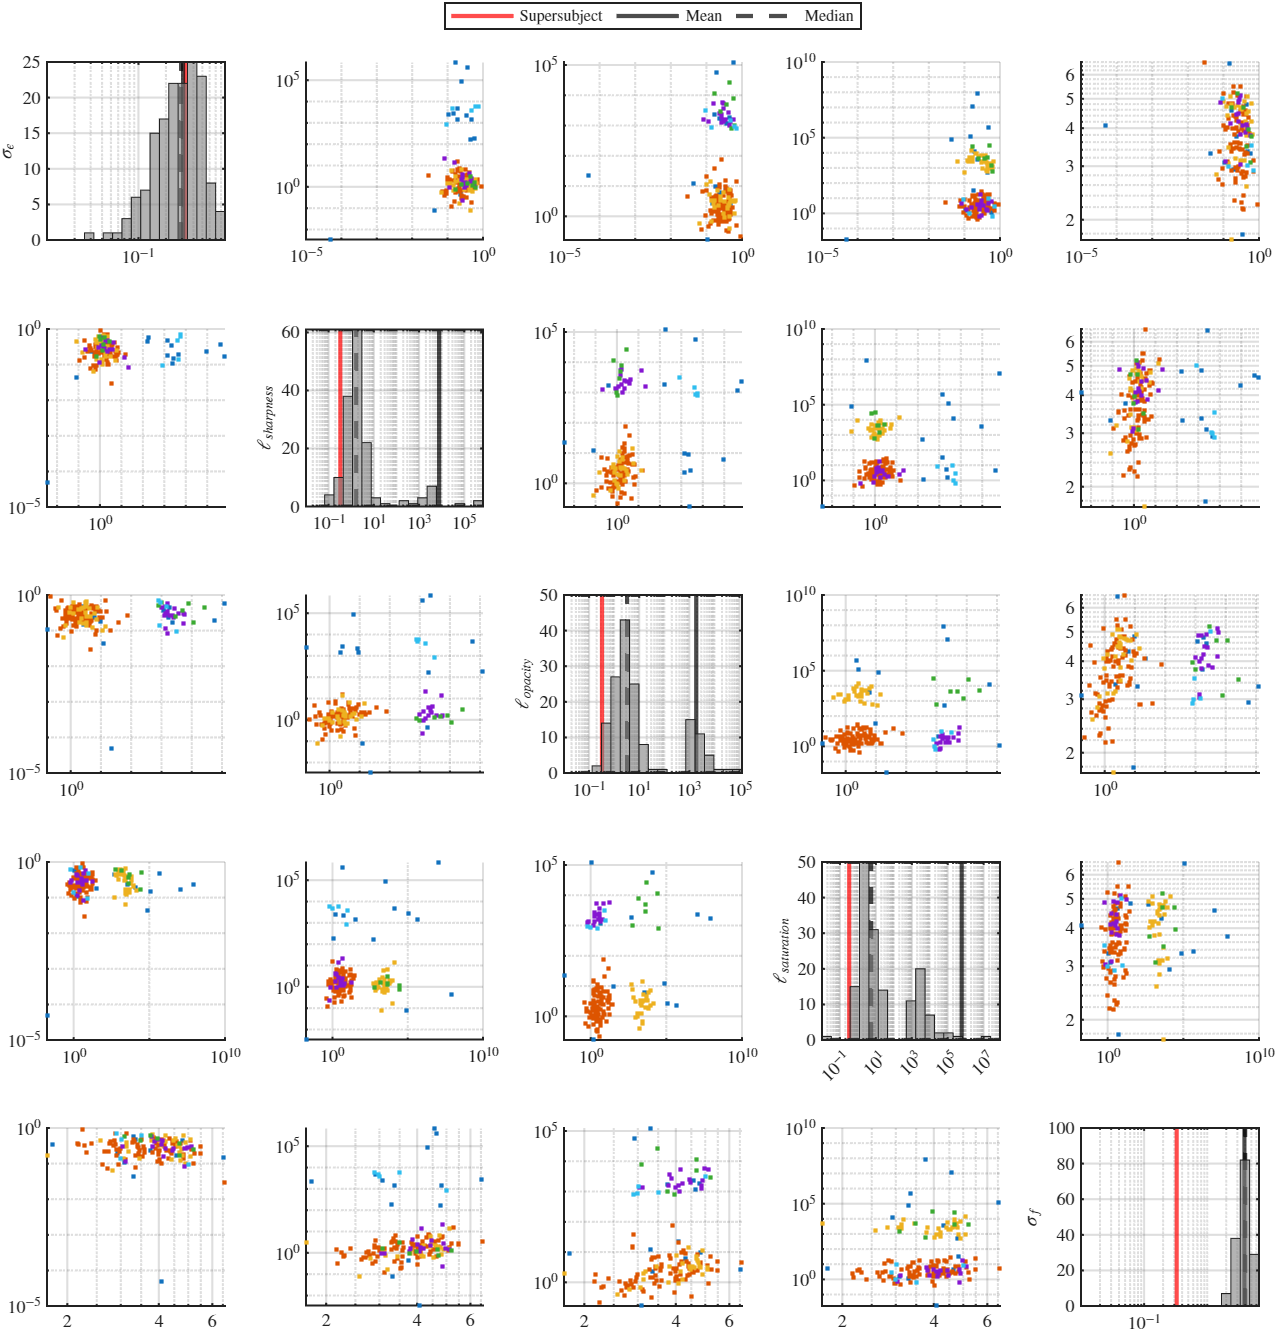
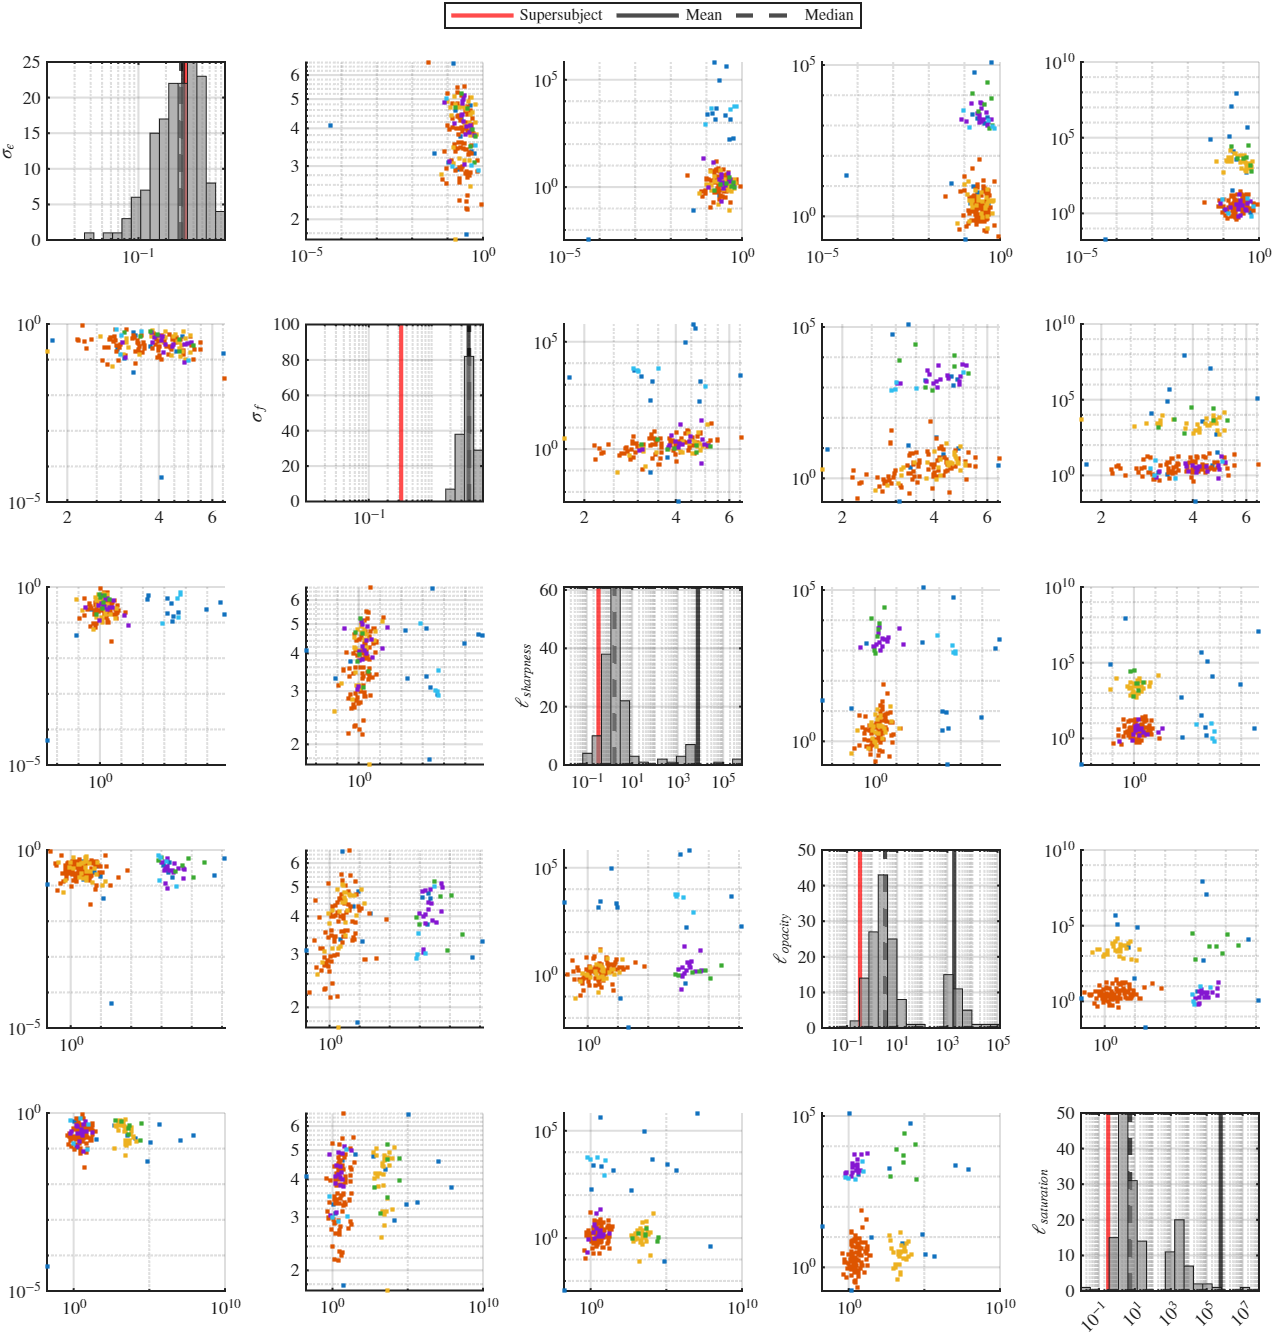
fix

diff --git a/_publications/2026-05-vividnessGP.md b/_publications/2026-05-vividnessGP.md
@@ -76,7 +76,7 @@ Difference manifolds:
 <details>
   <summary>Clustering Results</summary>
 
-  These are the pair-wise scatter plots of the hyperparameters of each subject along with the histograms. The histograms also show the supersubject hyperparameters, which are obtained by treating as if all the data came from a single "super"subject and optimizing the hyperparameters over that space. We can see that while the signal standard deviation is pretty typical of among the subjects, the length scales are significantly lower and the noise standard deviation is significantly higher. We believe that this is due to the mixing of single-subject noise variances into a single data pool, which inflates the error standard deviations, but this also allows for smaller length scales along all dimensions.
+  These are the pair-wise scatter plots of the hyperparameters of each subject along with the histograms. The histograms also show the supersubject hyperparameters, which are obtained by treating as if all the data came from a single "super"subject and optimizing the hyperparameters over that space. We can see that while the noise standard deviation is pretty typical of among the subjects, the length scales are significantly lower and the signal standard deviation is significantly higher. We believe that this is due to the mixing of single-subject noise variances into a single data pool.
   
   <p style="text-align:center">
     <img src="/images/vss2026_vividness_gp/scatterPlot.png" width="100%" />